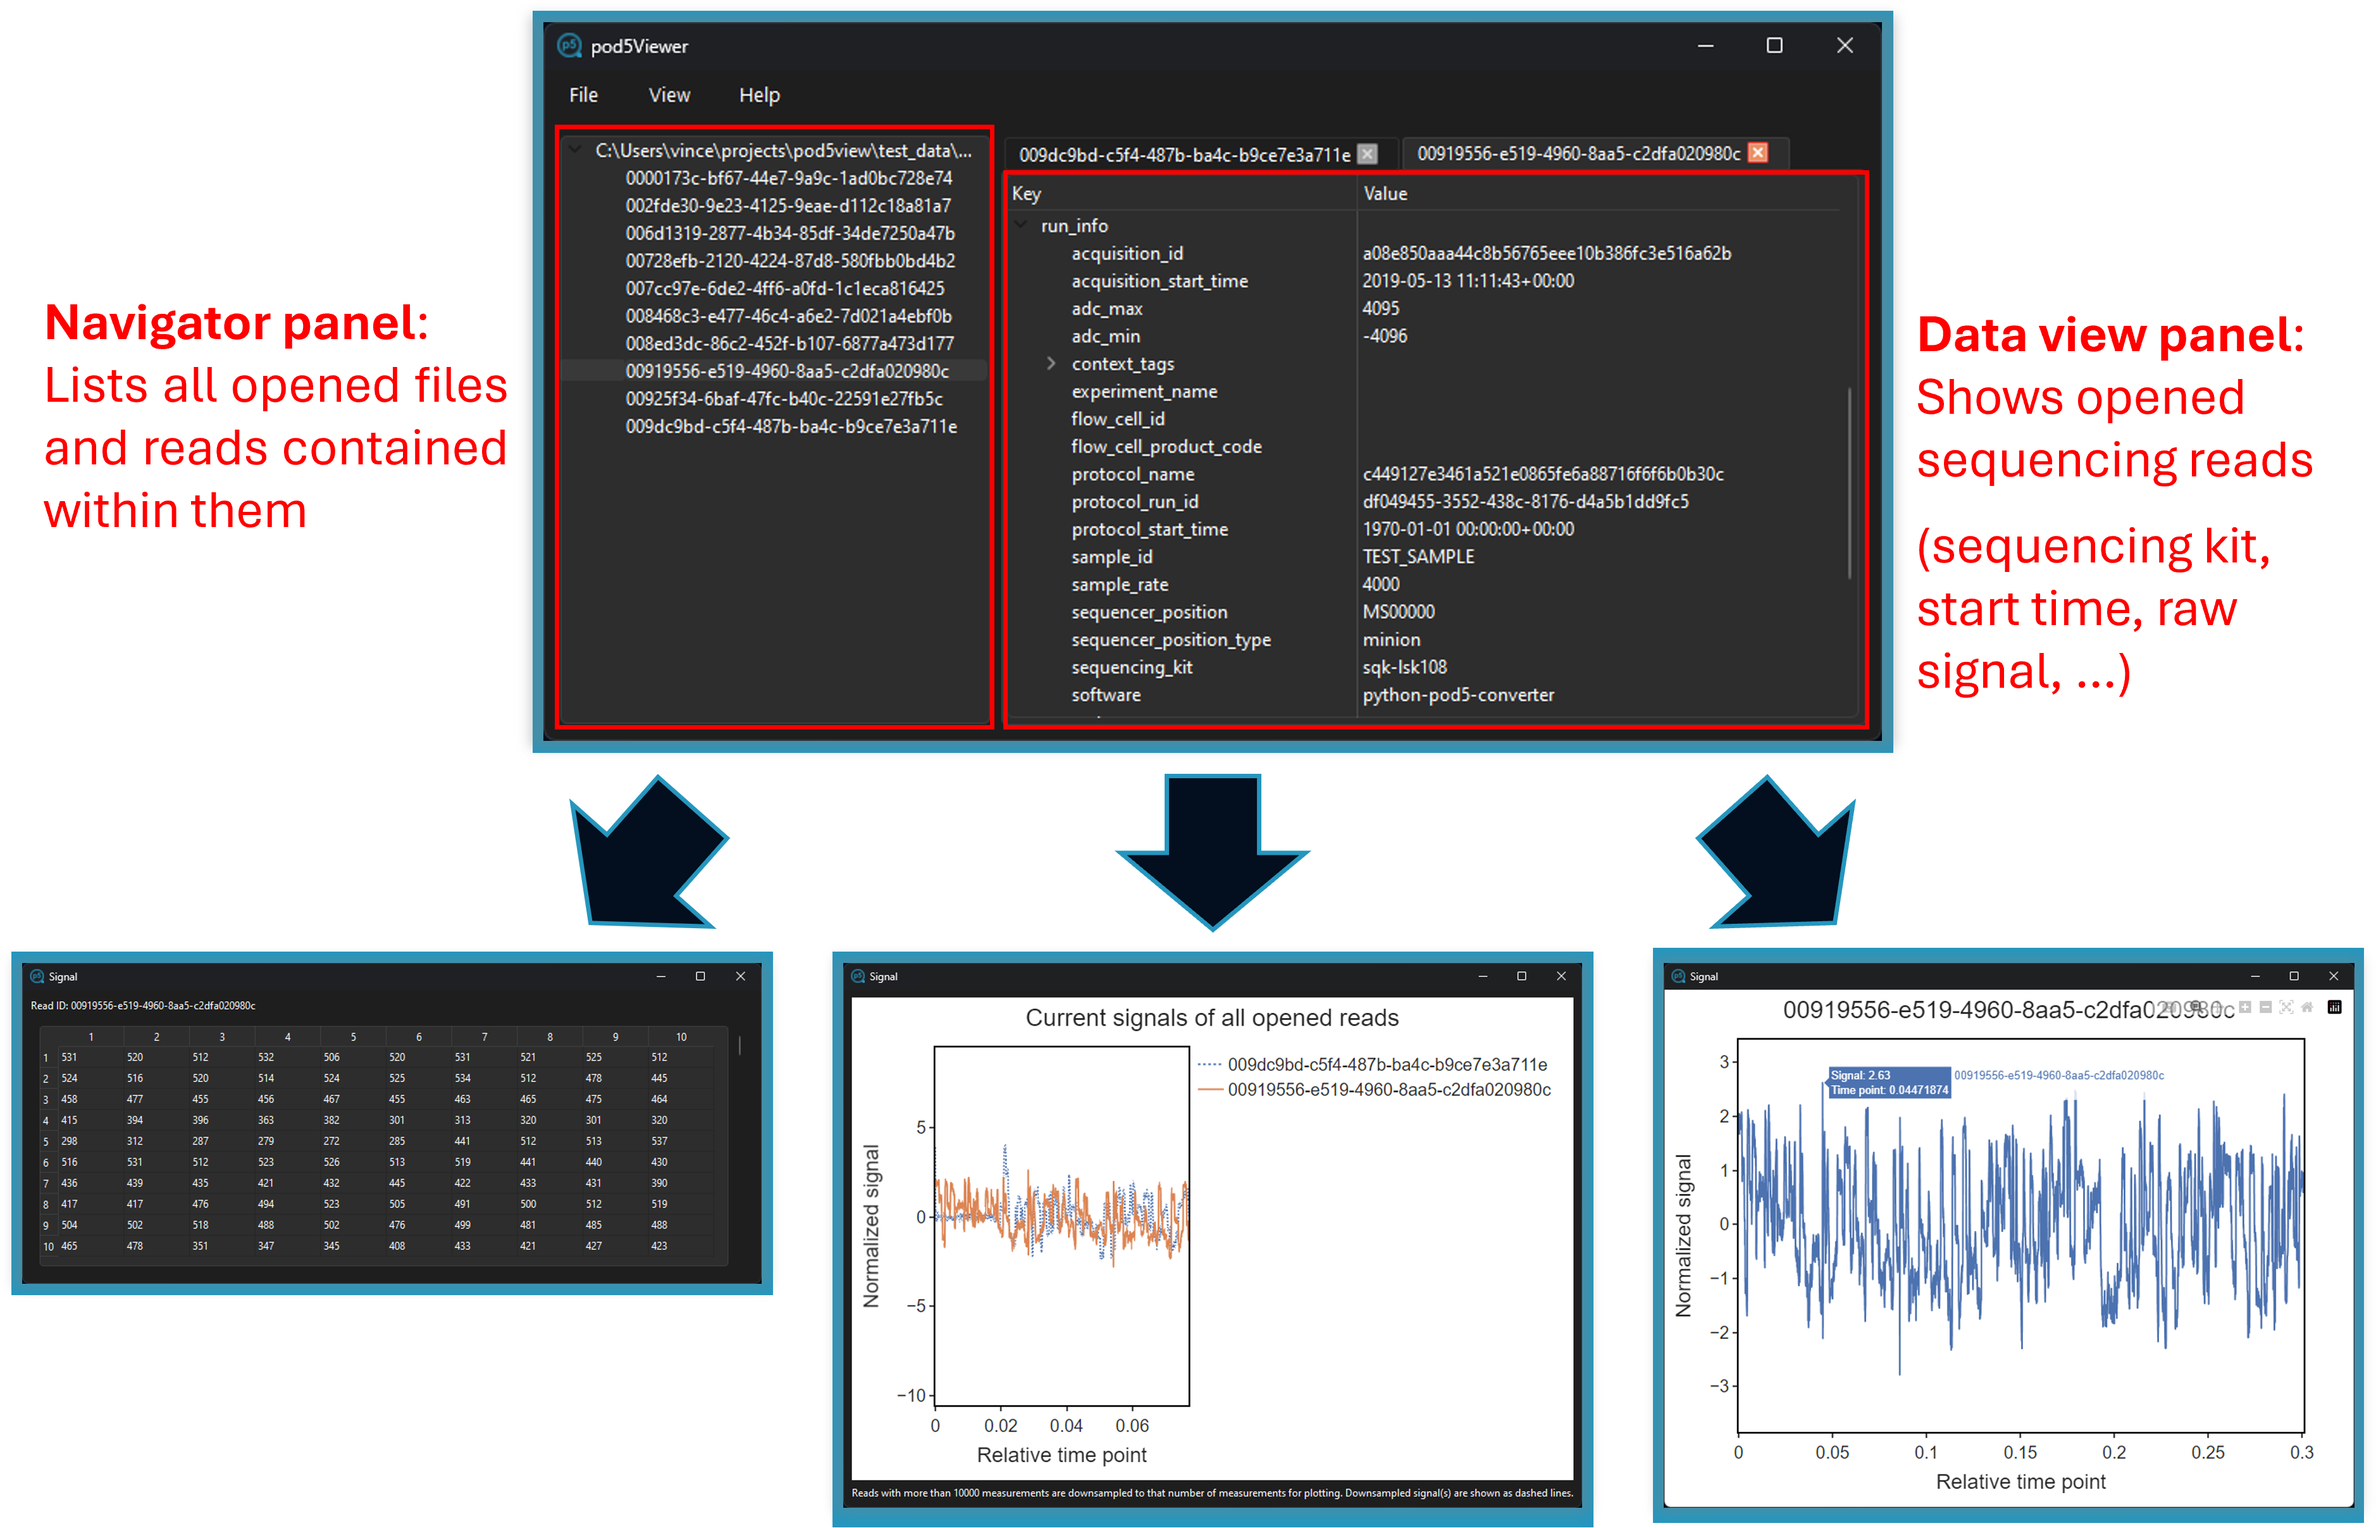
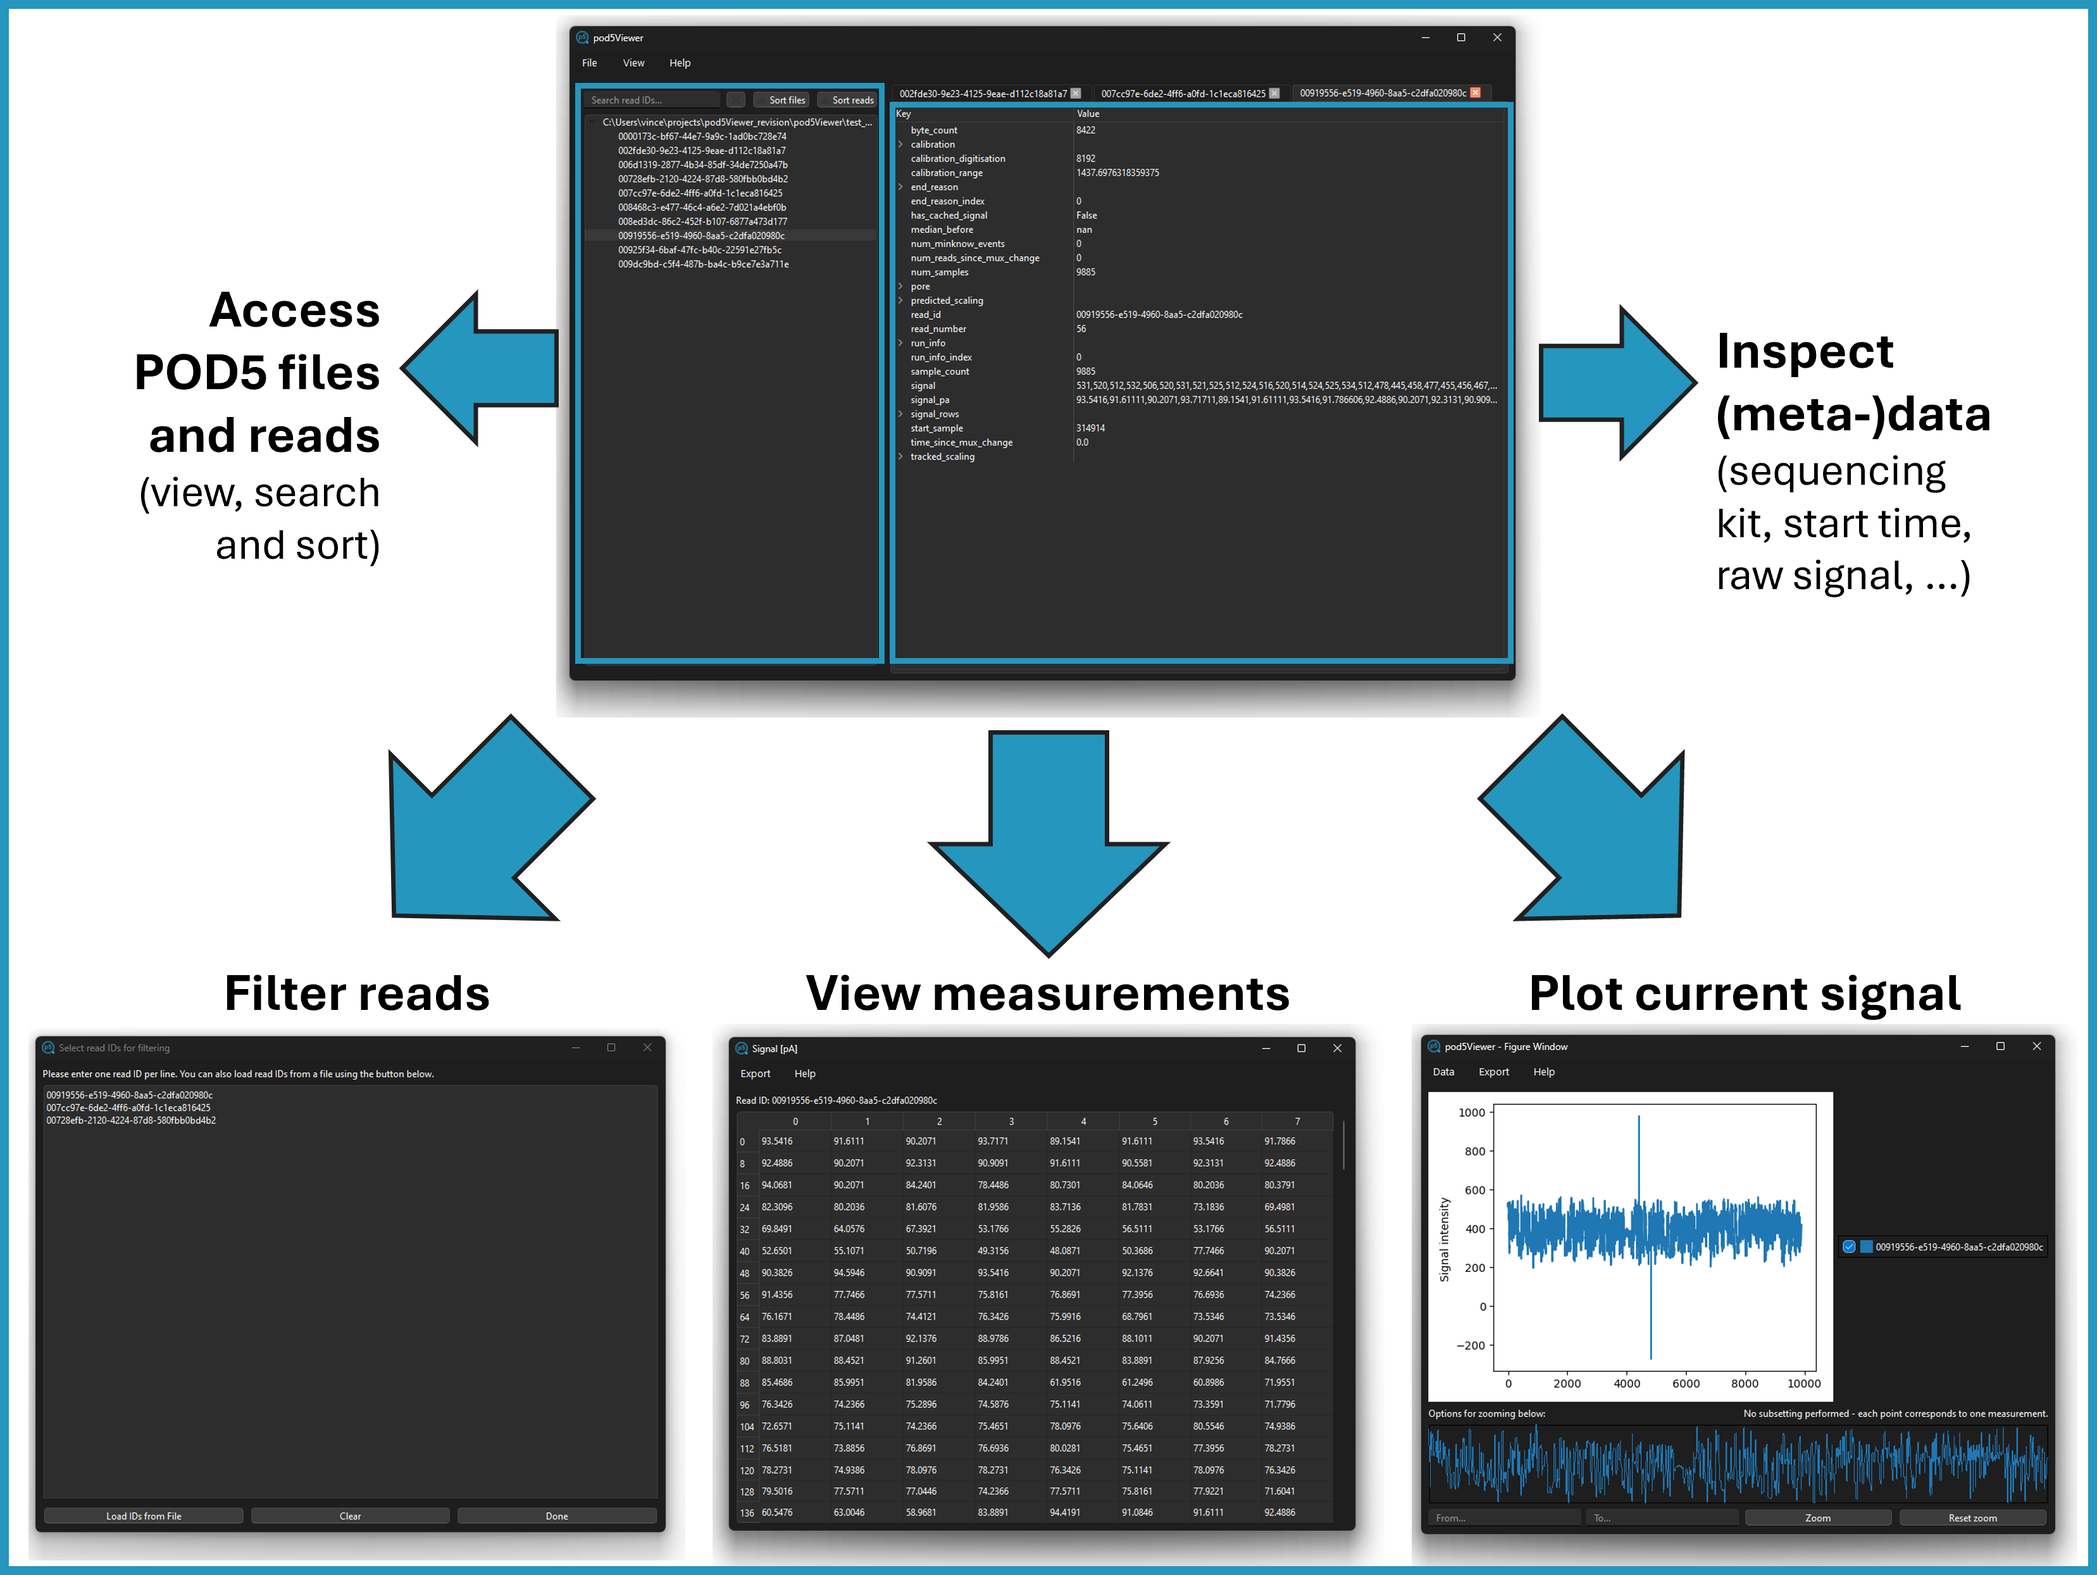
Updated readme

diff --git a/README.md b/README.md
@@ -14,6 +14,7 @@ The pod5Viewer is a Python application that provides a graphical user interface 
   - [Dependencies](#dependencies)
 - [Usage](#usage)
   - [Open and inspecting pod5 files](#open-and-inspecting-pod5-files)
+  - [Filtering for specific reads](#filtering-for-specific-reads)
   - [Viewing signals](#viewing-signals)
   - [Plotting signals](#plotting-signals)
   - [Exporting reads](#exporting-reads)
@@ -46,7 +47,7 @@ DEB files are available for Ubuntu 22.04 & 24.04 and Linux Mint 20.3 & 21.3 at t
 After downloading use apt to install it on the system:
 
 ```bash
-sudo apt install ./pod5viewer_1.0.2_<SYSTEM>.deb
+sudo apt install ./pod5viewer_<VERSION>_<SYSTEM>.deb
 ```
 
 Like the Windows installation, the pod5Viewer can then be opened like any other installed application.
@@ -98,7 +99,7 @@ The pod5Viewer is built in Python (v3.11.0) and relies on the following packages
 
 - pod5 (v0.3.10)
 - pyside6 (v6.5.2)
-- plotly (v5.22.0)
+- matplotlib (v3.9.2)
 - pyyaml (v6.0.1)
 
 The compliation for Windows was performed using the pyinstaller (v6.8.0) and the Windows installer was created using the Inno Setup Compiler (v6.3.1).
@@ -109,19 +110,46 @@ The compliation for Windows was performed using the pyinstaller (v6.8.0) and the
 
 ### Open and inspecting pod5 files
 
-In the pod5Viewer open files from the menu bar in the top via `File > Open file(s)...` (individual file(s)) or `File > Open directory` (all files in a directory). All opened files are shown in the left panel. Expanding an entry shows all reads in a given file by their read ID.
+In the pod5Viewer open files from the menu bar in the top via `File > Open file(s)...` (individual file(s)) or `File > Open directory` (all files in a directory). All opened files are shown in the left panel. Expanding an entry shows all reads in a given file by their read ID. Opened files and reads can be sorted alphabetically in ascending or descending order using the respective buttons above the panel. Specific read IDs can be searched using the search bar. Typing a search query updates the panel to show fitting reads in real-time. The button next to the search bar clears a given search query. 
 
 A single click on a read ID opens the entry as a preview (i.e. it gets overwritten once another entry is selected). A double click opens it permanently, so multiple reads can be opened at the same time. Tabs can be closed via the `X` symbol. A tab shows all attributes stored in a pod5 file as key-value pairs. Nested information can be expanded. Values can be selected via double-click and copied to the clipboard.
 
 Opened files and reads can be cleared from the window through `File > Clear`. To exit the app use  `File > Exit`.
 
+![file navigation](./images/pod5viewer_file_navigator.gif)
+
+### Filtering for specific reads
+
+To enable the user to focus on a specific subset of reads in given POD5 files, reads can be filtered to a subset. To activate this feature navigate to `File > Filter reads...`. This opens a new window containing a text browser, in which read IDs can be inserted. Here one read ID must be given per line. Alternatively, read IDs can be loaded from a text file, again containing one read ID per line. Press the `Load IDs from file...` button to select a file for filtering. After loading, the contents of the file are shown in the text browser. Press `Done` to submit given read IDs for filtering. Afterwards, only reads that are found in the given set are shown. 
+
+To clear the subset, reopen the window, press `Clear` and `Done`. Afterwards all read IDs are shown again.
+
+![read filter](./images/pod5Viewer_read_filter.gif)
+
+
 ### Viewing signals
 
-Individual current measurement can be inspected via `View > View signal...`. This shows the current values in chunks of 100. Use the scroll bar to scroll through chunks.
+Individual current measurement can be inspected via `View > View signal`. This shows the current values in chunks. Use the scroll bar to scroll through chunks. The measurements of a read can be exported isolated from the remaining data of a given read through the `Export` menu. The values can be exported to a `.npy` Numpy file for further processing in a `Numpy` environment. Alternatively, they can be written to a text file, where each line contains one measurement.
+
+![read filter](./images/pod5Viewer_view_data.png)
+
 
 ### Plotting signals
 
-To plot the current measurements select `View > Plot signal...`, `View > Plot pA signal...` or `View > Plot normalized signal...`. Signals can be plotted for a single read (`Focussed read...`) or all opened reads (`All open reads...`). The plots are interactive and allow for zooming, panning, hiding specific reads, and exporting. Downsampling is used for long signals for better performance.
+To plot the current measurements select `View > Plot signal...`, `View > Plot pA signal...`. Signals can be plotted for a single read (`Focussed read...`) or all opened reads (`All open reads...`). When selecting a option, a new window open showing the selected data as a line plot. The window contains the figure itself in the upper-left section, the legend containing each shown read ID in the upper-right section and a navigation section in the lower part of the window. 
+
+The navigation section shows a rough map of the whole figure and allows for selection of specific intervals. The user can select an interval by pressing on the start coordinate in the navigation map and dragging the cursor to the wanted end coordinate. When releasing the mouse button, the figure gets updated to show the new interval. For more fine-tuned zooming, two input fields are given below the map. In these the user can type a start and end value and press `Zoom` to focus on the provided interval specifically. Zooming can be resetted via the `Reset zoom` button. This restores the plot to the initial state.
+
+When multiple signals are shown, individual ones can be hidden/shown by unchecking/checking the corresponding checkbox in the legend.
+
+To switch to plotting the normalized signals select `Data > Show normalized data` in the menu. To revert back to the non-normalized signals, press `Data > Show data`.
+
+The current view can be exported to a vector graphic (SVG) by pressing `Export > Export current view...`. This opens a file browser where an export path can be selected.
+
+For faster performance and responsiveness of the window, long signals are subset to a maximum of 10000 measurements per signal at any given point. When subsetting, the data is split into 10000 bins, for each of which the median value is calculated. The label above the navigation section indicates whether subsetting is performed in the section that is currently shown, and if so how many measurements are contained in one bin. This way, the resolution of the shown data increases dynamically with higher zoom levels, providing the best performance with the least amount of information loss.
+
+![file navigation](./images/pod5viewer_plot_data.gif)
+
 
 ### Exporting reads
 
@@ -156,13 +184,6 @@ View signal window:
 - Pageup: Scroll up (large steps)
 - Arrow down: Scroll down
 - Arrow up: Scroll up
-
-## Limitations
-
-### Plotting large amounts of data
-
-When plotting many reads at a time the figure can become too large for displaying it in the plot window and it may show a white screen only. This is due to limitations of the plotly framework. The limit for this is around 40000 measurements in one plot, if this number is exceeded a warning pops up when opening the plot window.
-If a plot does not show, it is recommended to plot fewer reads at a time.
 
 ## License
 
